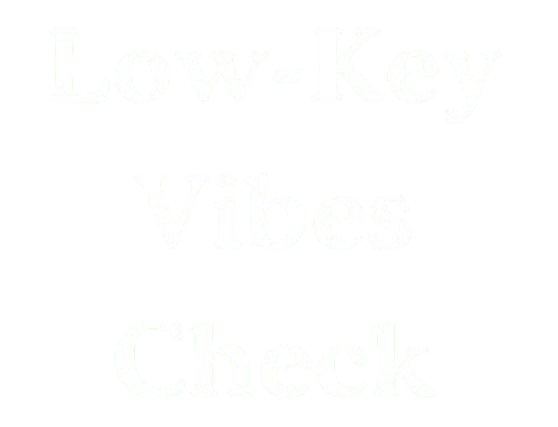
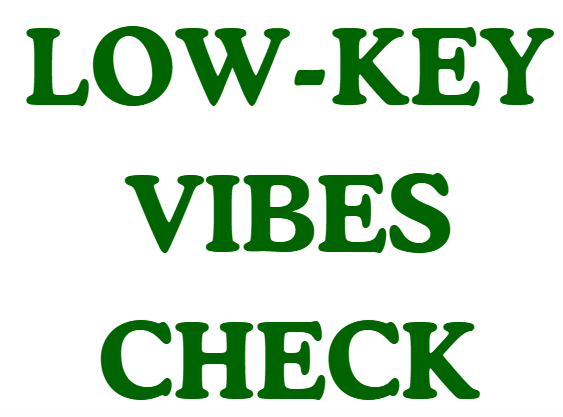
almost complete

diff --git a/index.html b/index.html
@@ -5,6 +5,7 @@
     <meta name="viewport" content="width=device-width, initial-scale=1.0" />
     <title>NORMAL</title>
     <link rel="stylesheet" href="style.css" />
+    <link rel="stylesheet" href="./test_section/section3-test.css">
   </head>
   <body>
     <nav class="navbar">
@@ -121,52 +122,56 @@
       </div>
     </section>
 
-    <section class="sec3">
-        <div class="text_area_sec3">
-            <div class="heading_sec3">
-                How Normal Are You?
-            </div>
-            <div class="boxes_sec3">
-                <div class="box_sec3">
-                    <!-- <h1>General Mental Health</h1> -->
-                    <span class="first_sec3 common1_sec3">Suicide is the leading cause of death of 15-29 years olds</span> <br>
-                    <!-- <span class="second_sec3 common1_sec3"></span> <br> -->
-                    <div class="line"></div>
-                    <span class="third_sec3 main_heading common1_sec3"> DEPRESSION TEST</span> <br>
-                    <div class="line"></div>
-                    <span class="forth_sec3 common1_sec3">15 QUESTIONS | HELPLINE -14416</span> <br>
-                    <span class="fifth_sec3 common1_sec3" style="font-size: 20px;">1. I Feel Down..... </span> <br>
-
-                    <button type="button" class="btn_sec3">Go To Test</button>
-
-                </div>
-                <div class="box_sec3">
-                    <!-- <h1>General Mental Health</h1> -->
-                    <span class="first_sec3 common1_sec3">One in seven 10-19 year olds experience a mental disorder</span> <br>
-                    <!-- <span class="second_sec3 common1_sec3"></span> <br> -->
-                    <div class="line"></div>
-                    <span class="third_sec3 main_heading common1_sec3"> GENERAL TEST</span> <br>
-                    <div class="line"></div>
-                    <span class="forth_sec3 common1_sec3">15 QUESTIONS | HELPLINE - 1800-599-0019</span> <br>
-                    <span class="fifth_sec3 common1_sec3" style="font-size: 20px;">1. My Drive To..... </span> <br>
-
-                    <button type="button" class="btn_sec3">Go To Test</button>
-                </div>
-                <div class="box_sec3">
-                    <!-- <h1>BPD test</h1> -->
-                     <span class="first_sec33 common1_sec3">An estimated one in 200(or 37million) people live with <b>bipolar desorder</b> worldwide<span> <br>
-                    <!-- <span class="second_sec3 common1_sec3"></span> <br> -->
-                    <div class="line"></div>
-                    <span class="third_sec3 main_heading common1_sec3"> BPD TEST</span> <br>
-                    <div class="line"></div>
-                    <span class="forth_sec3 common1_sec3">15 QUESTIONS | HELPLINE - 1800-233-3330</span> <br>
-                    <span class="fifth_sec3 common1_sec3" style="font-size: 20px;">1. My Mood..... </span> <br>
-
-                    <button type="button" class="btn_sec3">Go To Test</button>
-                </div>
-            </div>
+    <!-- section3 -->
+     <div class="container" style="display: flex; width: 100%; height: 100%">
+      <div class="section">
+        <img class="section_img" src="../image/depresion.png" alt="" />
+        <div class="afterHover">
+          <div class="heading">Low-Key Vibes Check</div>
+          <div class="details">
+            <img src="../image/low_key_paragraph.png" alt="">
+          </div>
+          <div class="img_section">
+            <a href="./low_key_similuter.html"><img src="../image/depresion_boi.png" alt="" /></a>
+            
+          </div>
         </div>
-    </section>
+      </div>
+      <div class="section">
+        <img class="section_img" src="../image/overthinking.png" alt="" />
+        <div class="afterHover">
+          <div class="heading">Overthinking Meter</div>
+          <div class="details">
+           <img src="../image/overthinking_meter_pargraph.png" alt="">
+
+          </div>
+          <div class="img_section">
+            <a href="./overthinking_meter.html">
+              <img src="../image/brain_.png" alt=""
+            /></a>
+          </div>
+        </div>
+      </div>
+      <div class="section">
+        <img
+          class="section_img"
+          style="height: 450px"
+          src="../image/brain battery.png"
+          alt=""
+        />
+        <div class="afterHover">
+          <div class="heading">Brain Battery %</div>
+          <div class="details">
+            <img src="../image/brain_battery_paragraph.png" alt="">
+          </div>
+          <div class="img_section">
+            <a href="./brain_battery.html">
+              <img src="../image/battery_img.png" alt="" />
+            </a>
+          </div>
+        </div>
+      </div>
+    </div>
 
     <!-- section4 - > help -->
 

diff --git a/style.css b/style.css
@@ -1,15 +1,22 @@
 @import url("https://fonts.googleapis.com/css2?family=Hubballi&family=Inter:ital,opsz,wght@0,14..32,100..900;1,14..32,100..900&family=Itim&display=swap");
+@import url('https://fonts.googleapis.com/css2?family=Chakra+Petch:ital,wght@0,300;0,400;0,500;0,600;0,700;1,300;1,400;1,500;1,600;1,700&display=swap');
 * {
   margin: 0;
   font-family: "Inter", sans-serif;
   padding: 0;
+  max-width: 100%;
 }
 /* navbar */
+:root{
+  --background_colour: white; 
+  --sec_background_color : rgb(247, 255, 197);
+  --font_section_heading :  "Chakra Petch", sans-serif;
+}
 
 .navbar {
   position: sticky;
   top: 0px;
-  background-color: #ffff;
+  background-color: var(--background_colour);
   z-index: 10;
 }
 
@@ -165,6 +172,8 @@ header {
   text-decoration: underline;
   font-weight: 600;
   margin-bottom: 30px;
+  font-family: var(--font_section_heading);
+
 }
 .text_area_sec12 .game_heading span {
   font-weight: 400;
@@ -205,8 +214,8 @@ header {
 .sec2 {
   width: 100vw;
   max-width: 100%;
-  background-color: rgb(245, 255, 185);
-  background-color: #ccffff;
+  /* background-color: rgb(245, 255, 185); */
+  background-color: var(--background_colour);
 
   box-sizing: border-box;
   display: grid;
@@ -225,6 +234,7 @@ header {
   margin-bottom: 40px;
   color: #087f6d;
   text-decoration: underline;
+  font-family: var(--font_section_heading);
 }
 .text_box_sec2 span a:hover {
   text-decoration: underline;
@@ -268,12 +278,12 @@ header {
 
 /* section3-test */
 
-.sec3 {
+/* .sec3 {
   width: 100vw;
   max-width: 100%;
   display: grid;
+  background-color: var(--background_colour);
   place-content: center;
-  background-color: #ccffff;
 }
 .text_area_sec3 {
   width: 65vw;
@@ -284,11 +294,11 @@ header {
   text-transform: uppercase;
   color: #087f6d;
   margin: 50px 10px;
-  font-family: "Inter", sans-serif;
+  font-family: var(--font_section_heading);
+
 }
 .boxes_sec3 {
   display: flex;
-  /* flex-direction: row; */
   justify-content: space-between;
   flex-wrap: wrap;
 }
@@ -307,7 +317,6 @@ header {
   transform: scale(1.02);
 }
 .common1_sec3 {
-  /* border-left: balck 2px solid; */
   line-height: 30px;
   font-size: 10px;
 }
@@ -345,7 +354,11 @@ header {
 .btn_sec3:hover {
   background-color: #db8a21;
   color: white;
-}
+} */
+
+
+/* section 3-new */
+
 
 /* section4 - help */
 
@@ -353,8 +366,8 @@ header {
   width: 100vw;
   max-width: 100%;
   display: grid;
+  background-color: var(--background_colour);
   place-content: center;
-  background-color: #ccffff;
 }
 .text_area_sec4 {
   width: 65vw;
@@ -365,12 +378,14 @@ header {
   text-transform: uppercase;
   color: #087f6d;
   margin: 50px 10px;
-  font-family: "Inter", sans-serif;
+  font-family: var(--font_section_heading);
+
 }
 .boxes_sec4 {
   display: flex;
   justify-content: space-between;
   flex-wrap: wrap;
+  cursor: pointer;
 }
 .box_sec4 {
   width: 48%;
@@ -392,12 +407,17 @@ header {
   color: #e59d3f;
   margin-bottom: 15px;
 }
+.box_sec4 h1:hover{
+  text-decoration: underline;
+}
 .box_sec4 p {
   font-size: 1.5rem;
   text-align: center;
 }
 
 footer {
+  background-color: black;
+  color: white;
   display: grid;
   place-content: center;
   width: 100vw;

diff --git a/temp-section3.html b/temp-section3.html
@@ -1,0 +1,46 @@
+<section class="sec3">
+        <div class="text_area_sec3">
+            <div class="heading_sec3">
+                How Normal Are You?
+            </div>
+            <div class="boxes_sec3">
+                <div class="box_sec3">
+                    <!-- <h1>General Mental Health</h1> -->
+                    <span class="first_sec3 common1_sec3">Suicide is the leading cause of death of 15-29 years olds</span> <br>
+                    <!-- <span class="second_sec3 common1_sec3"></span> <br> -->
+                    <div class="line"></div>
+                    <span class="third_sec3 main_heading common1_sec3"> DEPRESSION TEST</span> <br>
+                    <div class="line"></div>
+                    <span class="forth_sec3 common1_sec3">15 QUESTIONS | HELPLINE -14416</span> <br>
+                    <span class="fifth_sec3 common1_sec3" style="font-size: 20px;">1. I Feel Down..... </span> <br>
+
+                    <button type="button" class="btn_sec3">Go To Test</button>
+
+                </div>
+                <div class="box_sec3">
+                    <!-- <h1>General Mental Health</h1> -->
+                    <span class="first_sec3 common1_sec3">One in seven 10-19 year olds experience a mental disorder</span> <br>
+                    <!-- <span class="second_sec3 common1_sec3"></span> <br> -->
+                    <div class="line"></div>
+                    <span class="third_sec3 main_heading common1_sec3"> GENERAL TEST</span> <br>
+                    <div class="line"></div>
+                    <span class="forth_sec3 common1_sec3">15 QUESTIONS | HELPLINE - 1800-599-0019</span> <br>
+                    <span class="fifth_sec3 common1_sec3" style="font-size: 20px;">1. My Drive To..... </span> <br>
+
+                    <button type="button" class="btn_sec3">Go To Test</button>
+                </div>
+                <div class="box_sec3">
+                    <!-- <h1>BPD test</h1> -->
+                     <span class="first_sec33 common1_sec3">An estimated one in 200(or 37million) people live with <b>bipolar desorder</b> worldwide<span> <br>
+                    <!-- <span class="second_sec3 common1_sec3"></span> <br> -->
+                    <div class="line"></div>
+                    <span class="third_sec3 main_heading common1_sec3"> BPD TEST</span> <br>
+                    <div class="line"></div>
+                    <span class="forth_sec3 common1_sec3">15 QUESTIONS | HELPLINE - 1800-233-3330</span> <br>
+                    <span class="fifth_sec3 common1_sec3" style="font-size: 20px;">1. My Mood..... </span> <br>
+
+                    <button type="button" class="btn_sec3">Go To Test</button>
+                </div>
+            </div>
+        </div>
+    </section>

diff --git a/test_section/section3-test.css b/test_section/section3-test.css
@@ -10,7 +10,7 @@
 
 body {
   /* height: 100vh; */
-  display: flex;
+  /* display: flex; */
   font-family: Arial, sans-serif;
 }
 
@@ -32,14 +32,14 @@ body {
 }
 
 .section:nth-child(1),.section:nth-child(3) {
-  background-color: #99ff99;
-  color: darkgreen;
+  background-color: #fff;
+  color: #006400;
 
 }
-.section:nth-child(1):hover,.section:nth-child(3):hover{
+/* .section:nth-child(1):hover,.section:nth-child(3):hover{
   background-color: #ffffff;
 
-} 
+}  */
 
 .section:nth-child(2) {
   background-color: #ffffff;
